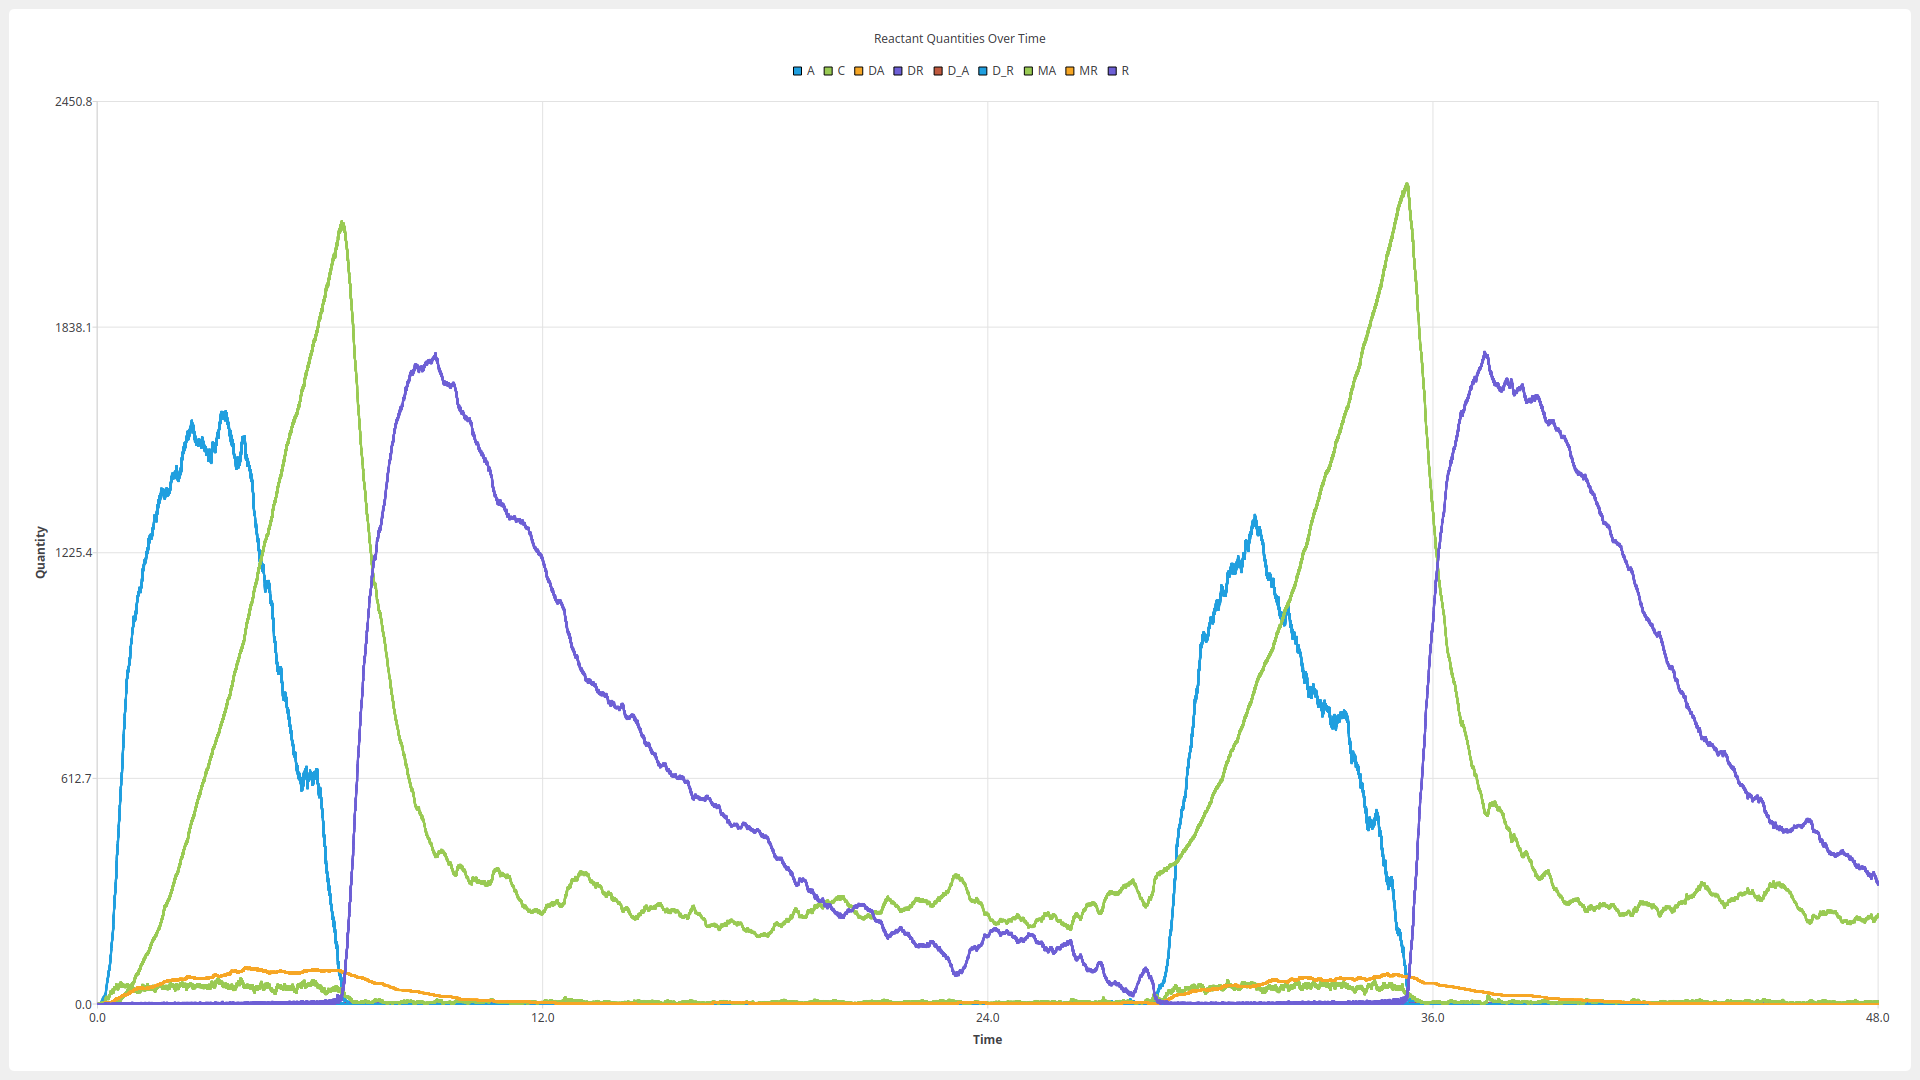
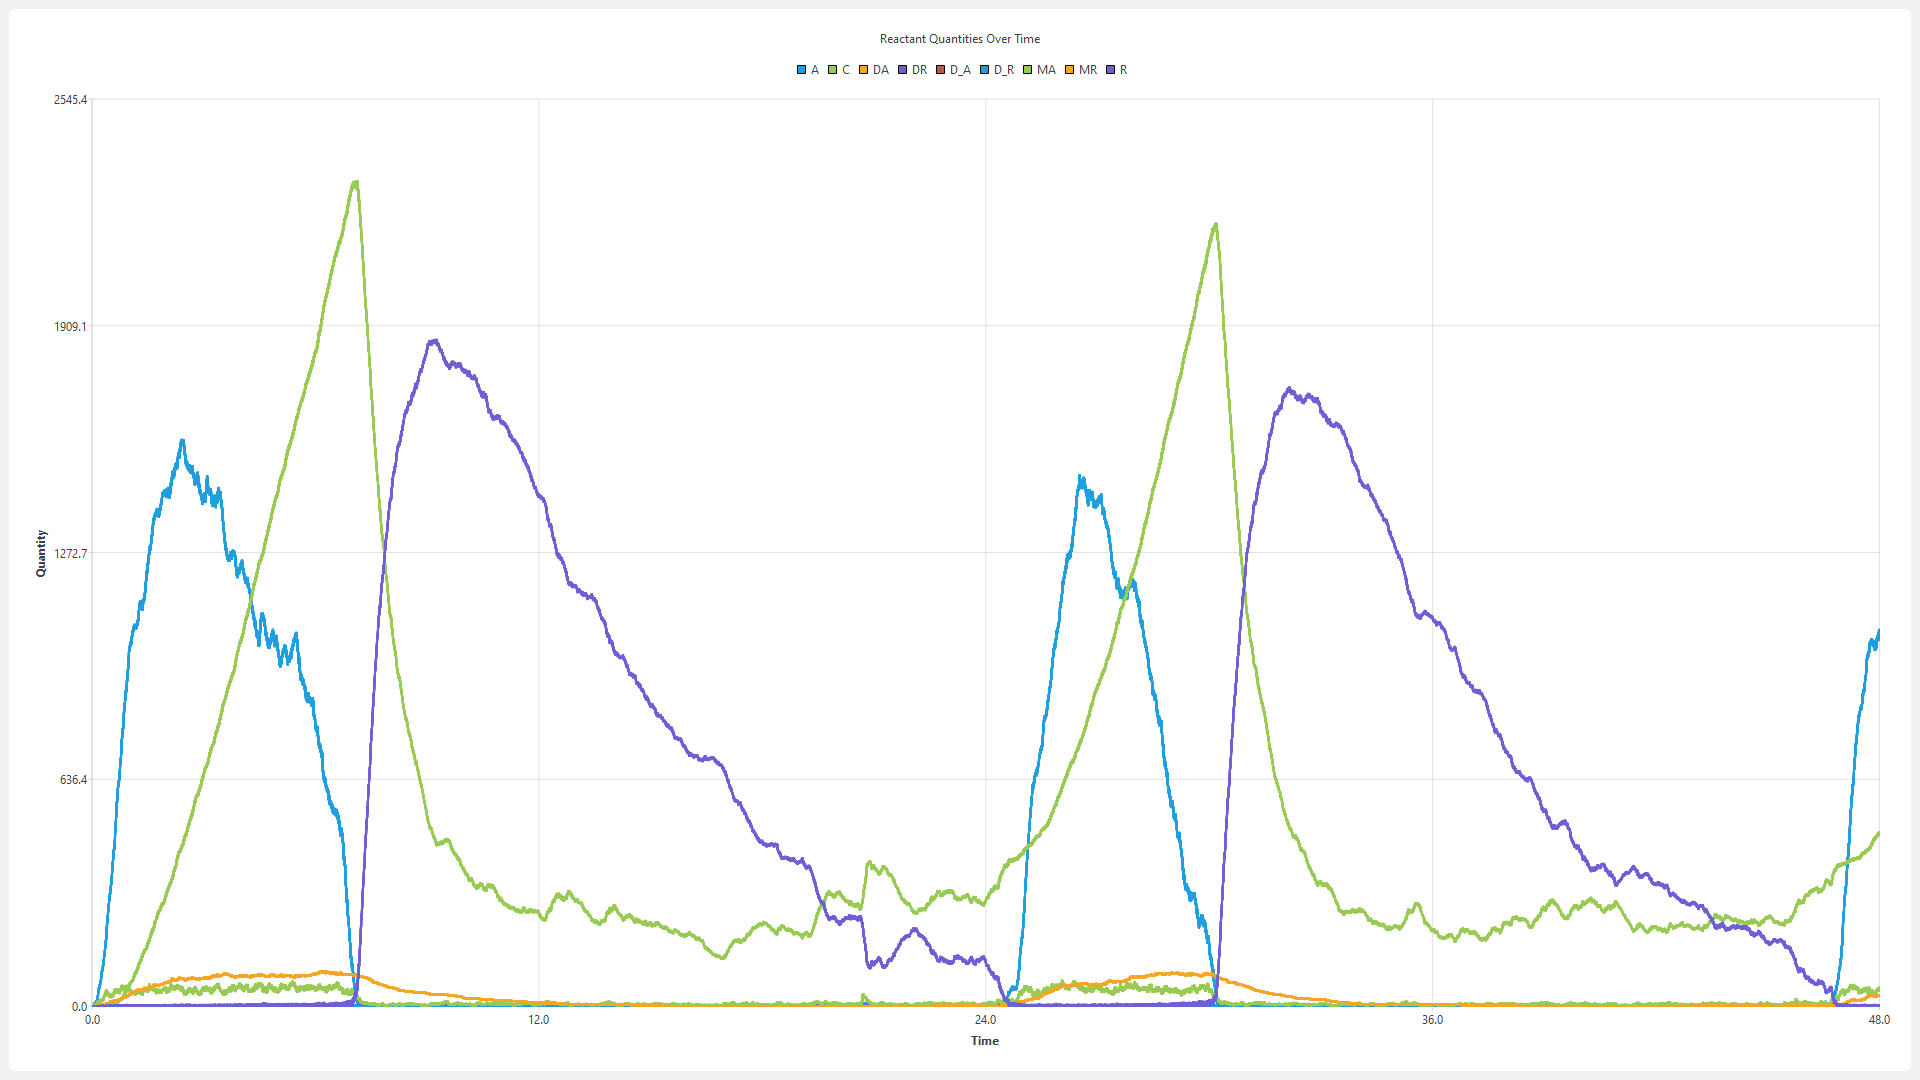
Added comments

diff --git a/tests/tests_simulation.cpp b/tests/tests_simulation.cpp
@@ -3,7 +3,7 @@
 #include <gtest/gtest.h>
 #include <tuple>
 
-TEST(SIMULATION, updates_reactants)
+TEST(SIMULATION, updates_reactants) //R9 + R7
 {
     auto app = createApp();
 
@@ -27,9 +27,8 @@ TEST(SIMULATION, updates_reactants)
     EXPECT_EQ(reactantTableResults.get("C").quantity, 1);
 }
 
-TEST(SIMULATION, multithreading)
+TEST(SIMULATION, multithreading) //R9
 {
-    auto app = createApp();
 
     auto v = Vessel{"Jutlandia"};
     const auto A = v.add("A", 1);
@@ -49,4 +48,52 @@ TEST(SIMULATION, multithreading)
     EXPECT_EQ(reactantTableResults.get("A").quantity, 0);
     EXPECT_EQ(reactantTableResults.get("B").quantity, 0);
     EXPECT_EQ(reactantTableResults.get("C").quantity, 1);
+}
+
+TEST(SIMULATION, requirement5_figure1_1) { //R5 + R7 + R9
+    auto app = createApp();
+
+    auto v = Vessel{"Figure 1.1"};
+    const auto A = v.add("A", 100);
+    const auto B = v.add("B", 0);
+    const auto C = v.add("C", 1);
+    const auto gamma = 0.001;
+    v.add((A + C) >> gamma >>= (B+C));
+    auto chartObserver = ChartObserver("Figure 1.1");
+    auto [reactantTableResults, reactionTableResults] =
+        v.runSimulations(1, 2000, chartObserver); // shows chart window but doesn't block
+    chartObserver.finalize(2000);
+    app->exec(); //R6
+}
+
+TEST(SIMULATION, requirement5_figure1_2) { //R5 + R7 + R9
+    auto app = createApp();
+
+    auto v = Vessel{"Figure 1.2"};
+    const auto A = v.add("A", 100);
+    const auto B = v.add("B", 0);
+    const auto C = v.add("C", 2);
+    const auto gamma = 0.001;
+    v.add((A + C) >> gamma >>= (B+C));
+    auto chartObserver = ChartObserver("Figure 1.2");
+    auto [reactantTableResults, reactionTableResults] =
+        v.runSimulations(1, 1500, chartObserver); // shows chart window but doesn't block
+    chartObserver.finalize(1500);
+    app->exec(); //R6
+}
+
+TEST(SIMULATION, requirement5_figure1_3) {//R5 + R7 + R9
+    auto app = createApp();
+
+    auto v = Vessel{"Figure 1.3"};
+    const auto A = v.add("A", 50);
+    const auto B = v.add("B", 50);
+    const auto C = v.add("C", 1);
+    const auto gamma = 0.001;
+    v.add((A + C) >> gamma >>= (B+C));
+    auto chartObserver = ChartObserver("Figure 1.3");
+    auto [reactantTableResults, reactionTableResults] =
+        v.runSimulations(1, 1500, chartObserver); // shows chart window but doesn't block
+    chartObserver.finalize(1500);
+    app->exec(); //R6
 }

diff --git a/include/reaction.hpp b/include/reaction.hpp
@@ -27,16 +27,16 @@ class Reaction
 
     Reaction &operator=(Reaction &&) = default;
     Reaction(const Reaction &other) = default;
-    bool operator==(const Reaction &other) const;
+    bool operator==(const Reaction &other) const; //R1
     Reaction &operator=(const Reaction &) = default;
-    Reaction &operator+(const Reactant &r); // For chaining (A + B + C)
-    template <RateVal T> Reaction &operator>>(T reaction_rate)
+    Reaction &operator+(const Reactant &r); // For chaining (A + B + C) //R1
+    template <RateVal T> Reaction &operator>>(T reaction_rate) //R1
     {
         rate = static_cast<double>(reaction_rate);
         return *this;
     }
-    Reaction &operator>>=(const Reaction &product); // For adding the product to the reaction
-    Reaction &operator>>=(const Reactant &product); // For adding the product to the reaction
+    Reaction &operator>>=(const Reaction &product); // For adding the product to the reaction //R1
+    Reaction &operator>>=(const Reactant &product); // For adding the product to the reaction //R1
     std::vector<Reaction>
         products{}; // Maybe this should be a symbol table? that is generic so we can use Environment in this
     std::vector<Reactant> inputs{}; // Wont hurt to do the same here
@@ -44,7 +44,7 @@ class Reaction
     double delay{std::numeric_limits<double>::max()};
     double rate{0};
     int incrementAmount = 1;
-    friend std::ostream &operator<<(std::ostream &os, const Reaction &r);
+    friend std::ostream &operator<<(std::ostream &os, const Reaction &r); //R1 + R2
     std::string hash() const;
     void print() const
     {
@@ -52,7 +52,7 @@ class Reaction
     }
 };
 
-template <RateVal T> Reaction Reactant::operator>>(T rate) const
+template <RateVal T> Reaction Reactant::operator>>(T rate) const //R1
 {
     auto reaction = Reaction(*this);
     reaction >> rate;

diff --git a/include/vessel.hpp b/include/vessel.hpp
@@ -18,15 +18,16 @@ class Vessel
     Vessel &operator=(const Vessel &) = default;
     Reactant add(std::string item, std::size_t quantity); // Adds to the symbol table
     void add(Reaction reaction_specification);            // Adds to the symbol table
-    SymbolTable<std::string, Reactant> reactantTable;
-    SymbolTable<std::string, Reaction> reactionTable;
+    SymbolTable<std::string, Reactant> reactantTable; //R3
+    SymbolTable<std::string, Reaction> reactionTable; //R3
     Reactant environment()
     {
         return Reactant("Environment", 0);
     };
-    void generateGraph() const;
-    template <isObserver... Observers>
+    void generateGraph() const; //R2.b
+    template <isObserver... Observers> //R7
 
+    //R4 + R7
     auto runSimulations(std::size_t numberOfThreads, std::size_t endTime, Observers &&...observers)
         -> std::tuple<SymbolTable<std::string, Reactant>, SymbolTable<std::string, Reaction>>
     {
@@ -36,7 +37,7 @@ class Vessel
         }
         std::vector<std::future<std::tuple<SymbolTable<std::string, Reactant>, SymbolTable<std::string, Reaction>>>>
             futures;
-
+        //R8
         for (std::size_t i = 0; i < numberOfThreads; ++i)
         {
             if (i == 0)
@@ -88,9 +89,9 @@ class Vessel
 
         return {avgReactants, avgReactions};
     }
-
-  private:
     std::string name;
+  private:
+    //R4 + R7
     template <isObserver... Observers>
     auto simulate(std::size_t endTime, Observers &&...observers)
         -> std::tuple<SymbolTable<std::string, Reactant>, SymbolTable<std::string, Reaction>>

diff --git a/tests/tests_reactions.cpp b/tests/tests_reactions.cpp
@@ -2,7 +2,7 @@
 #include "reaction.hpp"
 #include <gtest/gtest.h>
 
-TEST(Reaction, chain_reactions)
+TEST(Reaction, chain_reactions) //R9
 {
     const auto r = Reactant("A", 0);
     const auto r2 = Reactant("DA", 1);
@@ -12,7 +12,7 @@ TEST(Reaction, chain_reactions)
     EXPECT_EQ(reaction.inputs, expected_reactant_list);
 };
 
-TEST(Reaction, can_add_rate)
+TEST(Reaction, can_add_rate) //R9
 {
     const auto r = Reactant("A", 0);
     const auto r2 = Reactant("DA", 1);
@@ -24,16 +24,3 @@ TEST(Reaction, can_add_rate)
     EXPECT_EQ(reaction.rate, 1);
 }
 
-TEST(Reaction, create_full_reaction)
-{
-    // const auto A = Reactant("A", 0);
-    // const auto DA = Reactant("DA", 1);
-    // const auto D_A = Reactant("D_A",0);
-    // const auto gamma_A = 1;
-    // Reaction reaction = (A+DA) >> gamma_A >>= D_A;
-    // std::vector<Reactant> inputs {A, DA};
-    // std::vector<Reaction> products {D_A};
-    // EXPECT_EQ(reaction.inputs, inputs);
-    // EXPECT_EQ(reaction.products, products);
-    // EXPECT_EQ(reaction.rate, gamma_A);
-}

diff --git a/src/reaction.cpp b/src/reaction.cpp
@@ -25,13 +25,13 @@ Reaction &Reaction::operator>>=(const Reaction &product)
     }
     return *this;
 }
-
+//R1
 Reaction &Reaction::operator>>=(const Reactant &product)
 {
     products.emplace_back(Reaction(product));
     return *this;
 }
-
+//R1
 bool Reaction::operator==(const Reaction &other) const
 {
     return products == other.products && inputs == other.inputs && delay == other.delay && rate == other.rate;
@@ -44,7 +44,7 @@ Reaction &Reaction::operator+(const Reactant &r)
     return *this;
 }
 
-// R2
+// R2 + R1
 std::ostream &operator<<(std::ostream &os, const Reaction &reaction)
 {
     os << "Inputs: ";

diff --git a/include/reactant.hpp b/include/reactant.hpp
@@ -11,10 +11,10 @@ class Reactant
     Reactant(Reactant &&) = default;
     Reactant(const Reactant &) = default;
     Reactant &operator=(Reactant &&) = default;
-    bool operator==(const Reactant &other) const;
+    bool operator==(const Reactant &other) const; //R1
     Reactant &operator=(const Reactant &) = default;
-    template <RateVal T> Reaction operator>>(T rate) const;
-    Reaction operator+(const Reactant &other) const;
+    template <RateVal T> Reaction operator>>(T rate) const;//R1
+    Reaction operator+(const Reactant &other) const;//R1
     std::size_t quantity{0};
     std::string name;
 

diff --git a/src/reactant.cpp b/src/reactant.cpp
@@ -7,7 +7,7 @@ Reaction Reactant::operator+(const Reactant &other) const
 {
     return Reaction(*this, other);
 }
-
+//R1
 bool Reactant::operator==(const Reactant &other) const
 {
     return name == other.name && quantity == other.quantity;
@@ -19,7 +19,7 @@ Reactant::Reactant(std::string reactantName, std::size_t quantity)
     this->quantity = quantity;
 }
 
-std::ostream &operator<<(std::ostream &os, const Reactant &r) // R2
+std::ostream &operator<<(std::ostream &os, const Reactant &r) // R2 + R1
 {
     os << r.name << "(" << r.quantity << ")";
     return os;

diff --git a/tests/tests_vessel.cpp b/tests/tests_vessel.cpp
@@ -2,13 +2,14 @@
 #include "vessel.hpp"
 #include <gtest/gtest.h>
 
-TEST(Vessel, Can_Add_reactant)
+TEST(Vessel, Can_Add_reactant) //R9
 {
-    auto v = Vessel{"herro"};
+    auto v = Vessel{""};
     const auto D_A = v.add("D_A", static_cast<size_t>(0));
+    EXPECT_EQ(D_A, v.reactantTable.get("D_A"));
 }
 
-TEST(Vessel, Can_Add_Reaction)
+TEST(Vessel, Can_Add_Reaction)//R9
 {
     auto v = Vessel{"herro"};
     const auto D_A = v.add("D_A", 0);

diff --git a/include/symboltable.hpp b/include/symboltable.hpp
@@ -3,7 +3,7 @@
 #include <optional>
 #include <stdexcept>
 #include <unordered_map>
-
+//R3
 template <typename Key, typename Value> class SymbolTable
 {
 
@@ -37,7 +37,7 @@ template <typename Key, typename Value> class SymbolTable
         return found != table.end();
     }
     void print() const
-    {
+    { //R2
         for (const auto &[k, v] : table)
             std::cout << k << " => {\n" << v << "\n}" << std::endl;
     }

diff --git a/src/charts.cpp b/src/charts.cpp
@@ -17,7 +17,7 @@ QString findProjectRoot()
     return QCoreApplication::applicationDirPath(); // fallback
 }
 
-void generateChart(std::size_t endTime, std::map<std::string, QLineSeries *> seriesMap, std::string chartName)
+void generateChart(std::size_t endTime, std::map<std::string, QLineSeries *> seriesMap, std::string chartName) //R6
 {
     // Create chart and add series
     QChart *chart = new QChart();

diff --git a/tests/tests_seihr.cpp b/tests/tests_seihr.cpp
@@ -4,7 +4,7 @@
 #include <gtest/gtest.h>
 #include "seihr.hpp"
 
-TEST(SEIHR, basetest)
+TEST(SEIHR, basetest)//R9
 {
     const auto N = 1000;
     auto v = seihr(N);
@@ -24,7 +24,7 @@ TEST(SEIHR, basetest)
     EXPECT_EQ(reaction.products, std::vector<Reaction>{R});
 }
 
-TEST(SEIHR, PeakHospitalized)
+TEST(SEIHR, PeakHospitalized) //R7
 {
     auto app = createApp();
     const auto N = 10000;

diff --git a/include/observer.hpp b/include/observer.hpp
@@ -9,6 +9,7 @@
 #include <map>
 #include <string>
 
+//R7
 class Observer
 {
   public:
@@ -25,7 +26,6 @@ class PeakHospitalizedObserver : public Observer
     void operator()(const double t, SymbolTable<std::string, Reactant> &state) override;
 
     void finalize(const double end_time) const override;
-    // R7
 
     std::size_t peakHospitalized = 0;
 };
